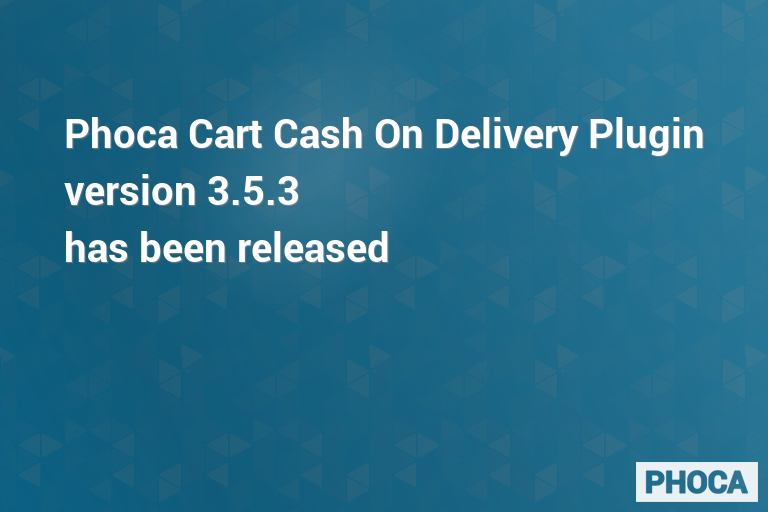
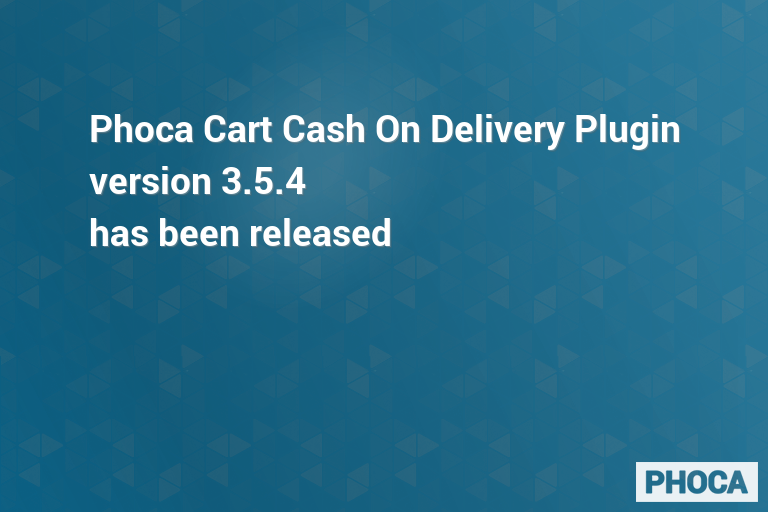
3.5.4
3.5.4

Changed region(s): [[0.0625, 0.2188, 0.9375, 0.5312]]

diff --git a/cash_on_delivery.php b/cash_on_delivery.php
@@ -37,5 +37,20 @@ class plgPCPCash_On_Delivery extends JPlugin
 		return true;
 	}
 	
+	function PCPbeforeSaveOrder(&$statusId, $pid) {
+
+
+        // Status set by payment method in case of order (pending, confirmed, completed)
+        // In case of POS cash, it is always completed
+        $paymentTemp		= new PhocacartPayment();
+        $paymentOTemp 		= $paymentTemp->getPaymentMethod((int)$pid );
+        $paramsPaymentTemp	= $paymentOTemp->params;
+        $statusId		    = $paramsPaymentTemp->get('default_order_status', 1);
+
+		//$statusId = 6;
+
+		return true;
+	}
+	
 }
 ?>

diff --git a/README.MD b/README.MD
@@ -56,7 +56,7 @@ Phoca Cart Payment - Cash On Delivery Plugin - payment method for Phoca Cart com
 
 ## Version
 
-3.5.3
+3.5.4
 
 
 
